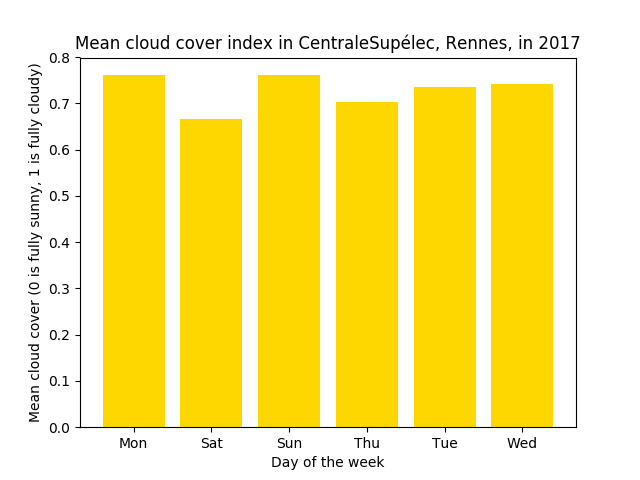
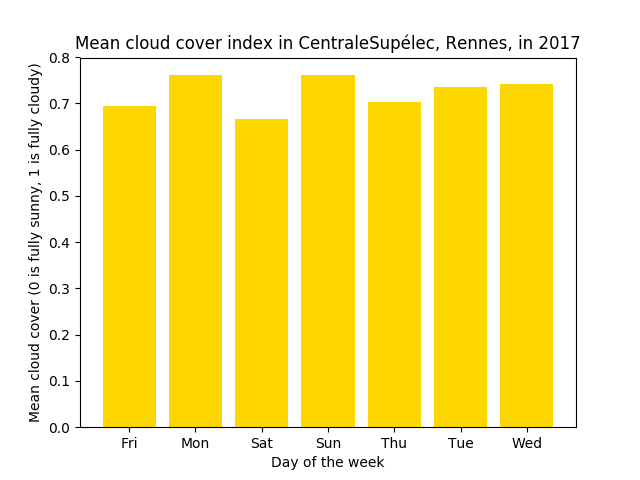
Typo... I forgot about the Fridays :smiley:

diff --git a/cloud_statistics_in_Rennes.py b/cloud_statistics_in_Rennes.py
@@ -106,7 +106,7 @@ def plot_data_by_weekday(all_cloud_cover, filename):
     plt.xlabel("Day of the week")
     plt.ylabel("Mean cloud cover (0 is fully sunny, 1 is fully cloudy)")
 
-    days = ["Mon", "Tue", "Wed", "Thu", "Wed", "Sat", "Sun"]
+    days = ["Mon", "Tue", "Wed", "Thu", "Fri", "Sat", "Sun"]
     plt.bar(days, mean_by_weekday, color="gold")
     plt.show()
 
